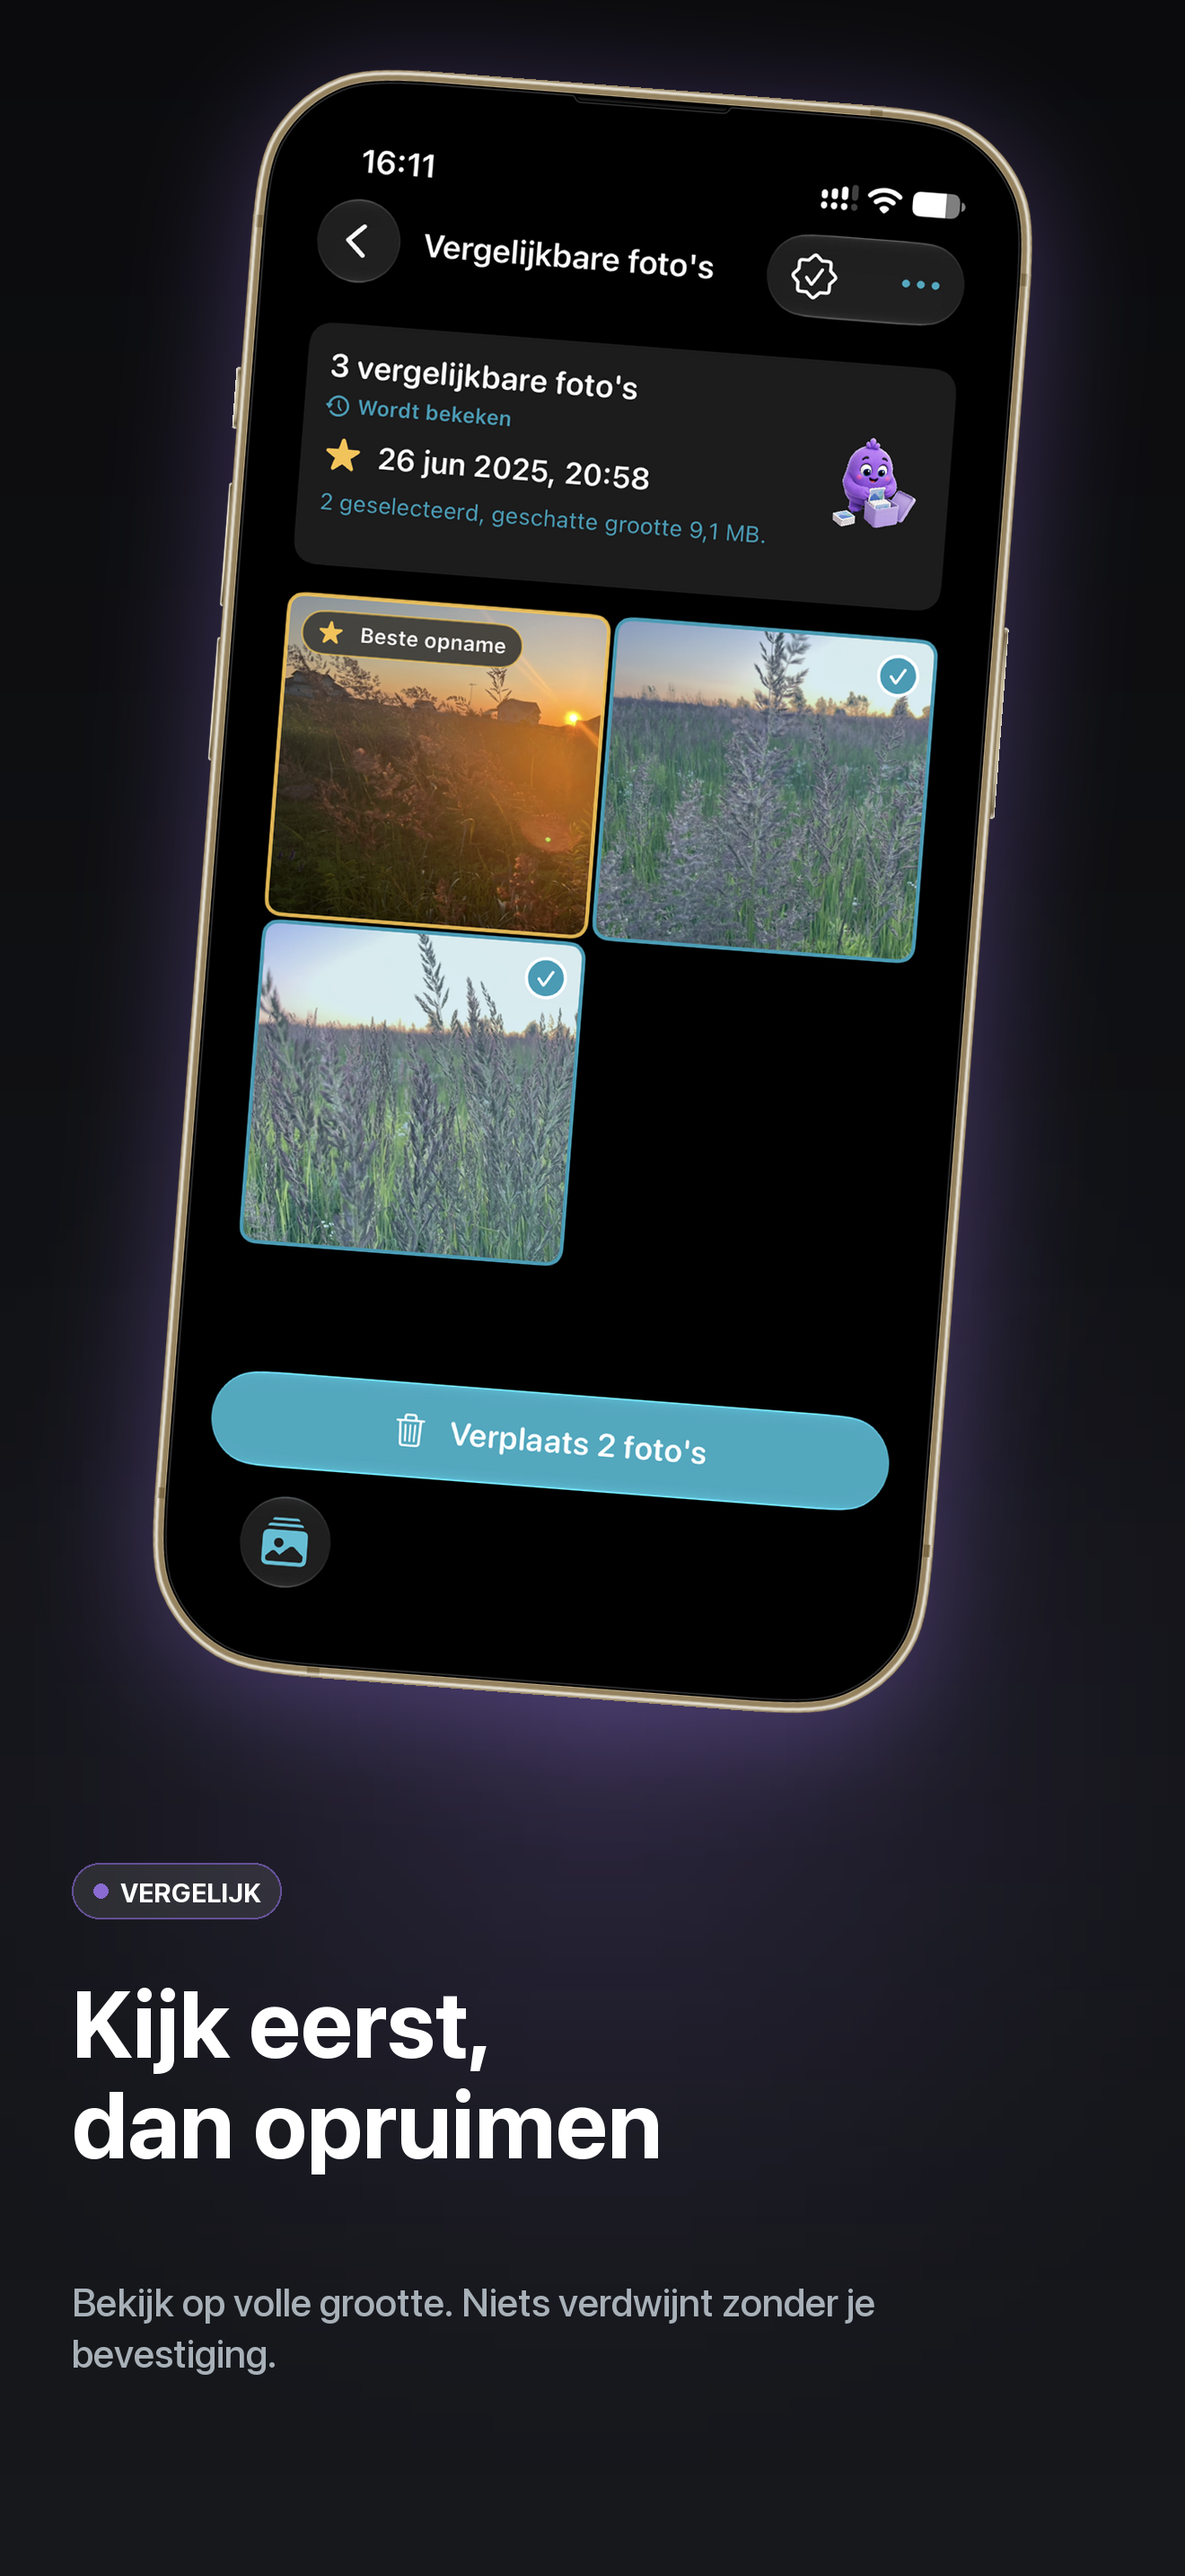
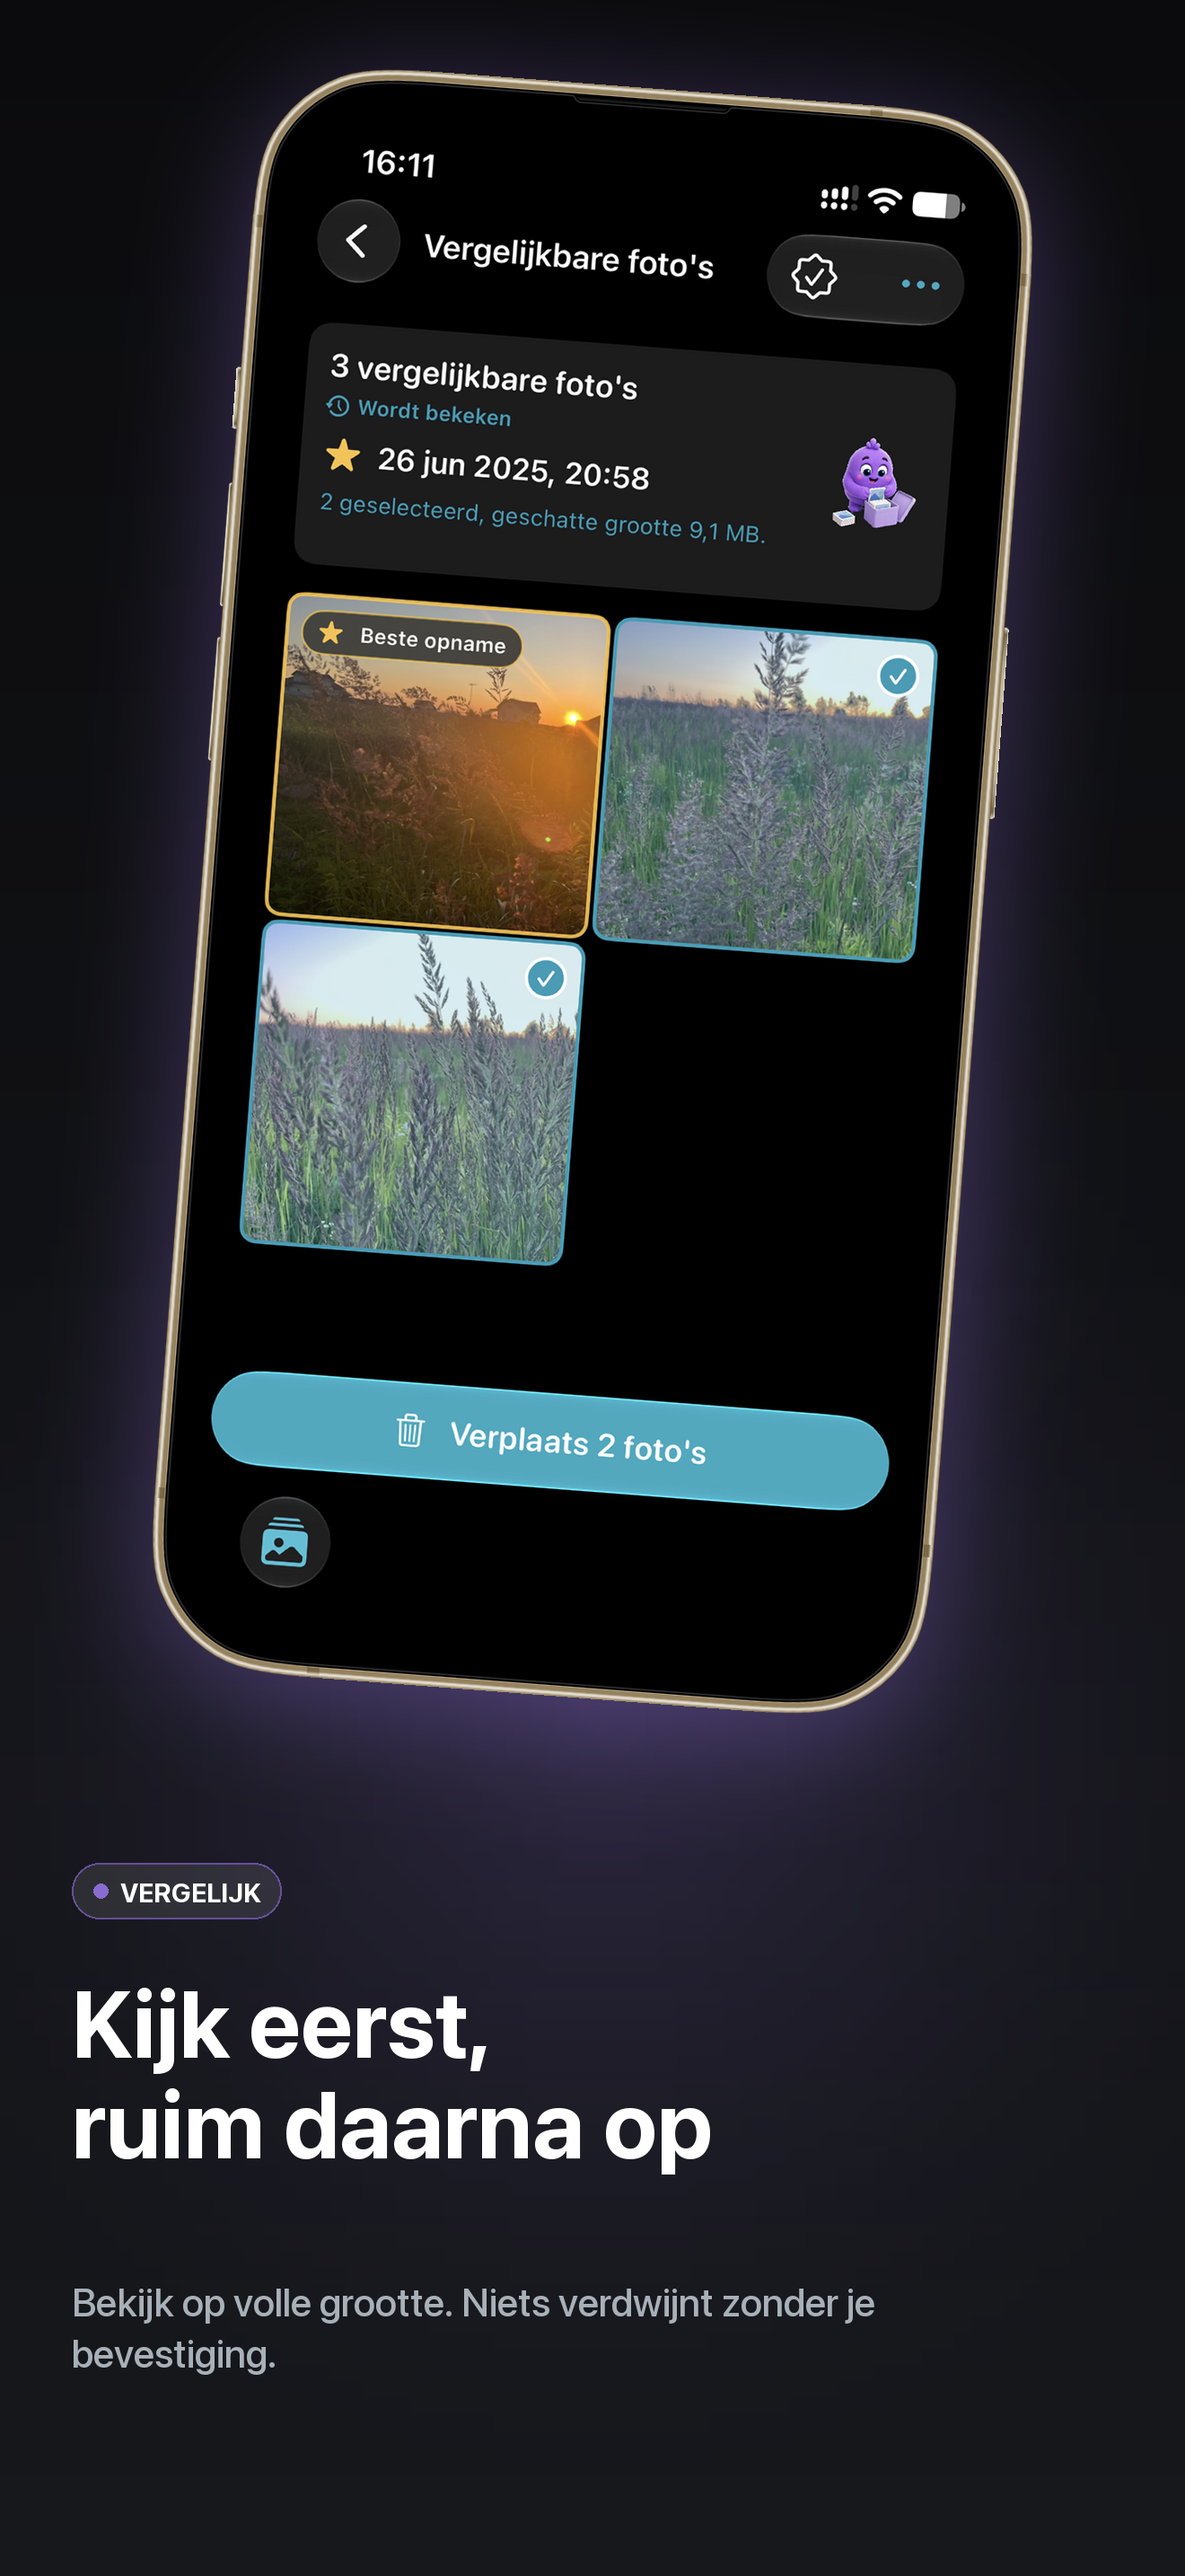
🌐 Screenshots: fix the malformed Dutch and Polish deck copy
Three strings in the committed decks read wrong:

- nl slide 4 headline "Kijk eerst, / dan opruimen" mixed an imperative with a
  bare infinitive; it is now "Kijk eerst, / ruim daarna op", two imperatives.
- nl slide 5 subtitle "Geselecteerd en geschatte besparing" left the participle
  without a noun to agree with; "Geselecteerde foto's en geschatte besparing"
  names it, matching what the other locales' slide 5 does.
- pl slide 5 subtitle "Wybrane i szacowana oszczędność" had the same fragment
  problem; "Wybrane zdjęcia i szacowana oszczędność" names the noun.

Regenerated with the tools venv, which rewrote exactly the three affected
renders — nl/05, nl/07 and pl/07 — and nothing else.
Docs/screenshot-brief.md carries the same three rows; a check of every nl and
pl slide against the generator finds all ten rows present and matching, so the
brief and the decks cannot be read apart.

Changed region(s): [[0.0621, 0.8068, 0.6212, 0.8379]]

diff --git a/tools/generate_app_store_product_screenshots.py b/tools/generate_app_store_product_screenshots.py
@@ -453,13 +453,13 @@ COPY = {
         ),
         (
             "VERGELIJK",
-            "Kijk eerst,\ndan opruimen",
+            "Kijk eerst,\nruim daarna op",
             "Bekijk op volle grootte. Niets verdwijnt zonder je bevestiging.",
         ),
         (
             "VRIJE RUIMTE",
             "Zie de gigabytes\nterugkomen",
-            "Geselecteerd en geschatte besparing, terwijl je opruimt.",
+            "Geselecteerde foto's en geschatte besparing, terwijl je opruimt.",
         ),
     ],
     "pl": [
@@ -486,7 +486,7 @@ COPY = {
         (
             "WOLNE MIEJSCE",
             "Odzyskaj\ngigabajty",
-            "Wybrane i szacowana oszczędność, na bieżąco podczas porządków.",
+            "Wybrane zdjęcia i szacowana oszczędność, na bieżąco podczas porządków.",
         ),
     ],
     "tr": [

diff --git a/Docs/screenshot-brief.md b/Docs/screenshot-brief.md
@@ -133,8 +133,8 @@ against "qué falta", "Comprueba antes" against "Revisa antes".
 | 1 | OP HET APPARAAT | Vind de foto's / die op elkaar lijken | Alike scant je bibliotheek met Apple Vision, volledig op je iPhone. |
 | 2 | ÉÉN WACHTRIJ | Elke groep, / klaar om te bekijken | Groepen komen met statuslabels: je ziet altijd wat er nog ligt. |
 | 3 | BESTE OPNAME | De blijver is / al gekozen | Alike licht de beste opname uit. Jij hoeft alleen te bevestigen. |
-| 4 | VERGELIJK | Kijk eerst, / dan opruimen | Bekijk op volle grootte. Niets verdwijnt zonder je bevestiging. |
-| 5 | VRIJE RUIMTE | Zie de gigabytes / terugkomen | Geselecteerd en geschatte besparing, terwijl je opruimt. |
+| 4 | VERGELIJK | Kijk eerst, / ruim daarna op | Bekijk op volle grootte. Niets verdwijnt zonder je bevestiging. |
+| 5 | VRIJE RUIMTE | Zie de gigabytes / terugkomen | Geselecteerde foto's en geschatte besparing, terwijl je opruimt. |
 
 ### pl
 
@@ -144,7 +144,7 @@ against "qué falta", "Comprueba antes" against "Revisa antes".
 | 2 | JEDNA KOLEJKA | Każda grupa / gotowa do przeglądu | Grupy mają znaczniki przeglądu — zawsze wiesz, co zostało. |
 | 3 | NAJLEPSZE UJĘCIE | Zdjęcie do zostawienia / jest już wybrane | Alike wyróżnia najlepszy kadr w grupie. Ty tylko potwierdzasz. |
 | 4 | PORÓWNAJ | Sprawdź, zanim / cokolwiek zniknie | Podgląd w pełnym rozmiarze. Nic nie znika bez potwierdzenia. |
-| 5 | WOLNE MIEJSCE | Odzyskaj / gigabajty | Wybrane i szacowana oszczędność, na bieżąco podczas porządków. |
+| 5 | WOLNE MIEJSCE | Odzyskaj / gigabajty | Wybrane zdjęcia i szacowana oszczędność, na bieżąco podczas porządków. |
 
 ### tr
 
